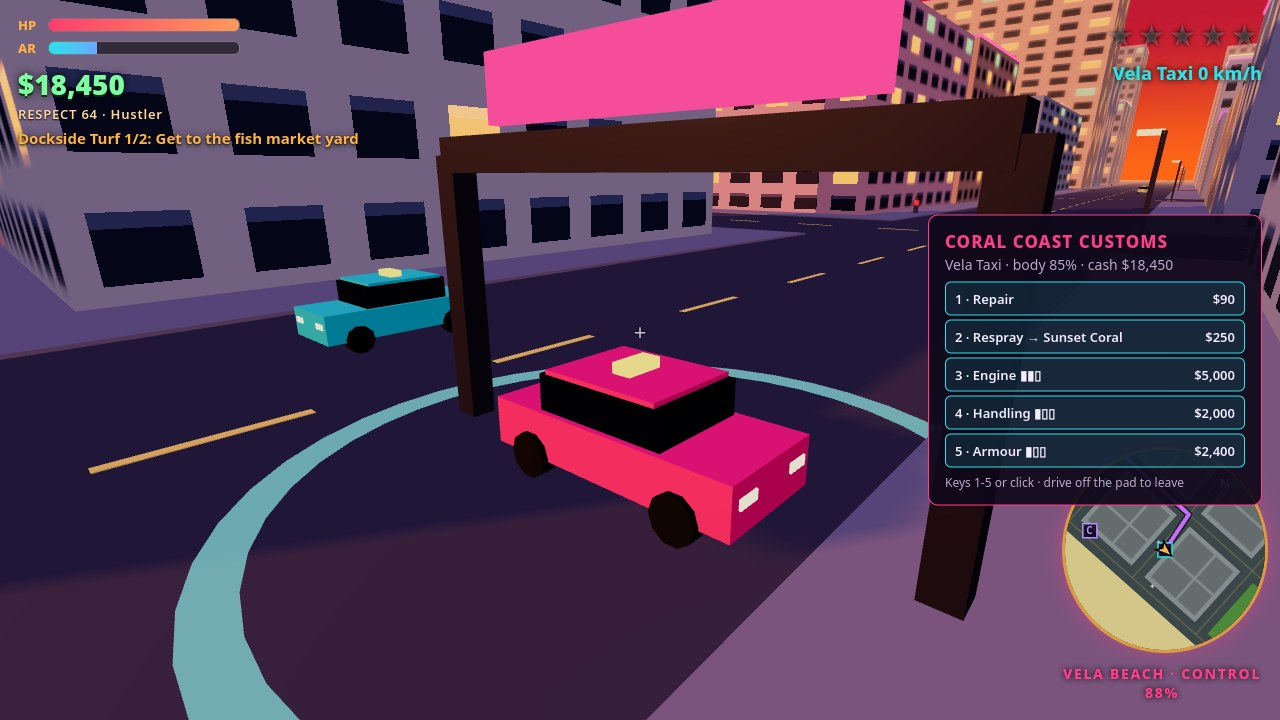
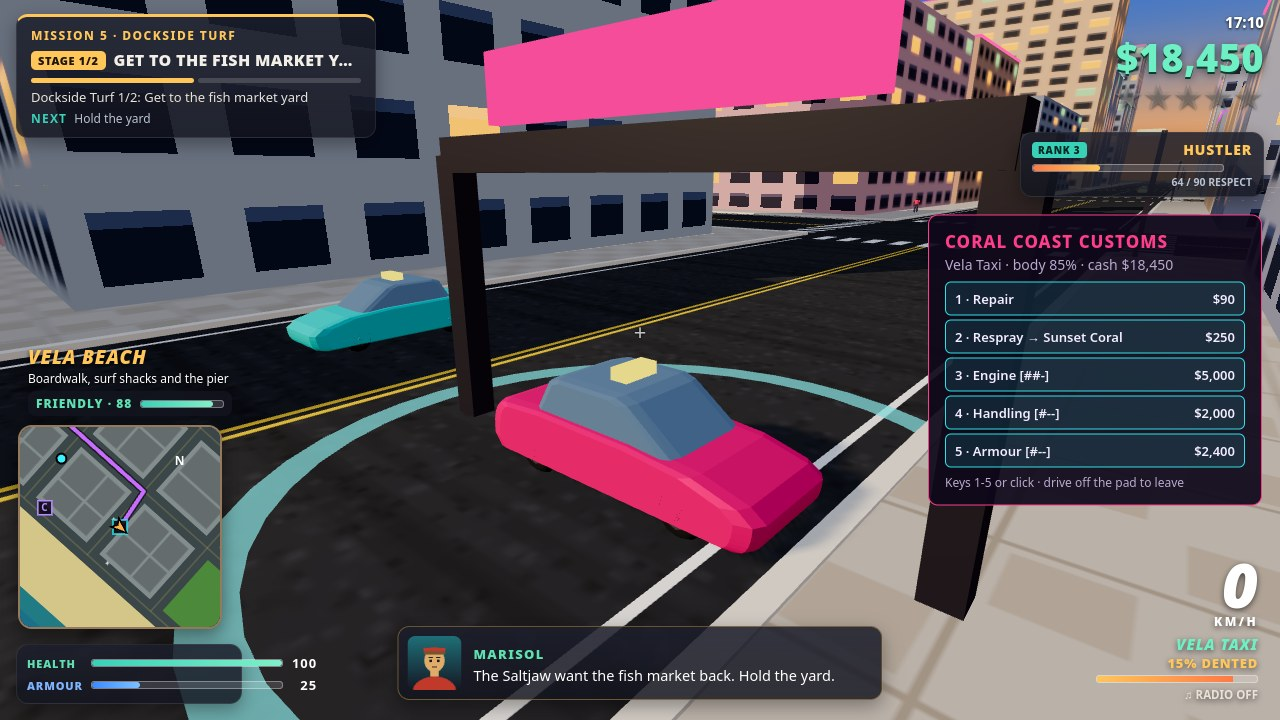
Shot fixes from visual review: police card capped at 4 rows (+N more) so it no longer overlaps the district card; garage tier pips use ASCII [#--] (U+25AE/25AF rendered as tofu boxes); explosion smoke smaller and mid-grey so it reads as smoke, not a black polygon blob; removed the no-op regex on pol

diff --git a/game/src/ui/cards.js b/game/src/ui/cards.js
@@ -149,11 +149,11 @@ export function createCards(game) {
     units.sort((a, b) => a.d - b.d);
     show('police', stars > 0 && units.length > 0);
     if (stars > 0 && units.length) {
-      const rows = units.slice(0, 5).map((u) => `<div class="unit ${u.hot ? 'hot' : ''} ${u.air ? 'air' : ''}"><span class="sign">${u.air ? '&#9650;' : '&#9632;'} ${u.sign}</span><span class="role">${u.role}</span><span class="dist">${Math.round(u.d)} m</span></div>`).join('');
-      const more = units.length > 5 ? `<div class="more">+${units.length - 5} more</div>` : '';
+      const rows = units.slice(0, 4).map((u) => `<div class="unit ${u.hot ? 'hot' : ''} ${u.air ? 'air' : ''}"><span class="sign">${u.air ? '&#9650;' : '&#9632;'} ${u.sign}</span><span class="role">${u.role}</span><span class="dist">${Math.round(u.d)} m</span></div>`).join('');
+      const more = units.length > 4 ? `<div class="more">+${units.length - 4} more</div>` : '';
       const lines = game.hud.radioLines;
       const feed = lines.length ? `<div class="feed">${esc(lines[lines.length - 1].div.textContent)}</div>` : '';
-      put('police', `<div class="kicker red">VCPD RESPONSE <span>${units.length} UNIT${units.length > 1 ? 'S' : ''}</span></div>${rows.replace(/(<div class="unit[^"]*">)(?![\s\S]*<div class="unit)/, '$1')}${more}${feed}`);
+      put('police', `<div class="kicker red">VCPD RESPONSE <span>${units.length} UNIT${units.length > 1 ? 'S' : ''}</span></div>${rows}${more}${feed}`);
     }
 
     // ---- district card ----

diff --git a/game/src/fx/effects.js b/game/src/fx/effects.js
@@ -89,7 +89,7 @@ export function createEffects(scene) {
 
   /** Grey smoke from a damaged car; dark when it is about to catch fire. */
   function smokePuff(x, y, z, dark = false) {
-    particle(smoke, SMOKE_CAP, x + (rnd() - 0.5) * 0.6, y, z + (rnd() - 0.5) * 0.6, (rnd() - 0.5) * 0.6, 1.4 + rnd(), (rnd() - 0.5) * 0.6, 1.6 + rnd(), 0.5 + rnd() * 0.3, dark ? 0x232026 : 0x8d8a92, 0.9);
+    particle(smoke, SMOKE_CAP, x + (rnd() - 0.5) * 0.6, y, z + (rnd() - 0.5) * 0.6, (rnd() - 0.5) * 0.6, 1.4 + rnd(), (rnd() - 0.5) * 0.6, 1.6 + rnd(), 0.5 + rnd() * 0.3, dark ? 0x4a464c : 0x8d8a92, 0.9);
   }
 
   function flame(x, y, z, scale = 1) {
@@ -105,7 +105,7 @@ export function createEffects(scene) {
       particle(glow, GLOW_CAP, x, 1 + rnd(), z, Math.cos(a) * sp, 2 + rnd() * 9, Math.sin(a) * sp, 0.45 + rnd() * 0.5, 0.5 + rnd() * 0.9, rnd() < 0.5 ? 0xffb02e : 0xff5a14, -0.4, -9);
     }
     for (let i = 0; i < 22; i++) {
-      particle(smoke, SMOKE_CAP, x + (rnd() - 0.5) * 3, 1.5 + rnd() * 2, z + (rnd() - 0.5) * 3, (rnd() - 0.5) * 4, 2 + rnd() * 3, (rnd() - 0.5) * 4, 2.2 + rnd() * 1.5, 1.2 + rnd(), 0x2a2328, 1.2);
+      particle(smoke, SMOKE_CAP, x + (rnd() - 0.5) * 3, 1.5 + rnd() * 2, z + (rnd() - 0.5) * 3, (rnd() - 0.5) * 4, 2 + rnd() * 3, (rnd() - 0.5) * 4, 1.4 + rnd() * 0.8, 1.2 + rnd(), 0x5a555c, 1.2);
     }
     sparks(x, 1.2, z, 18, 0xfff0a0);
     boomLight.position.set(x, 3, z);

diff --git a/game/src/systems/garage.js b/game/src/systems/garage.js
@@ -112,9 +112,9 @@ export function createGarages(game, scene) {
       <div style="color:#b9a9cc;margin:2px 0 8px">${car.mesh.variant.name} · body ${Math.round(car.health)}% · cash $${cash.toLocaleString('en-US')}</div>
       ${row('repair', 1, 'Repair', car.health >= 99.5 ? null : repairCost(car))}
       ${row('respray', 2, `Respray → ${nextPaint.name}`, RESPRAY_COST)}
-      ${row('engine', 3, `Engine ${'▮'.repeat(m.engine)}${'▯'.repeat(3 - m.engine)}`, tier('engine'))}
-      ${row('handling', 4, `Handling ${'▮'.repeat(m.handling)}${'▯'.repeat(3 - m.handling)}`, tier('handling'))}
-      ${row('armor', 5, `Armour ${'▮'.repeat(m.armor)}${'▯'.repeat(3 - m.armor)}`, tier('armor'))}
+      ${row('engine', 3, `Engine [${'#'.repeat(m.engine)}${'-'.repeat(3 - m.engine)}]`, tier('engine'))}
+      ${row('handling', 4, `Handling [${'#'.repeat(m.handling)}${'-'.repeat(3 - m.handling)}]`, tier('handling'))}
+      ${row('armor', 5, `Armour [${'#'.repeat(m.armor)}${'-'.repeat(3 - m.armor)}]`, tier('armor'))}
       <div style="color:#b9a9cc;font-size:12px;margin-top:6px">Keys 1-5 or click · drive off the pad to leave</div>`;
   }
 
